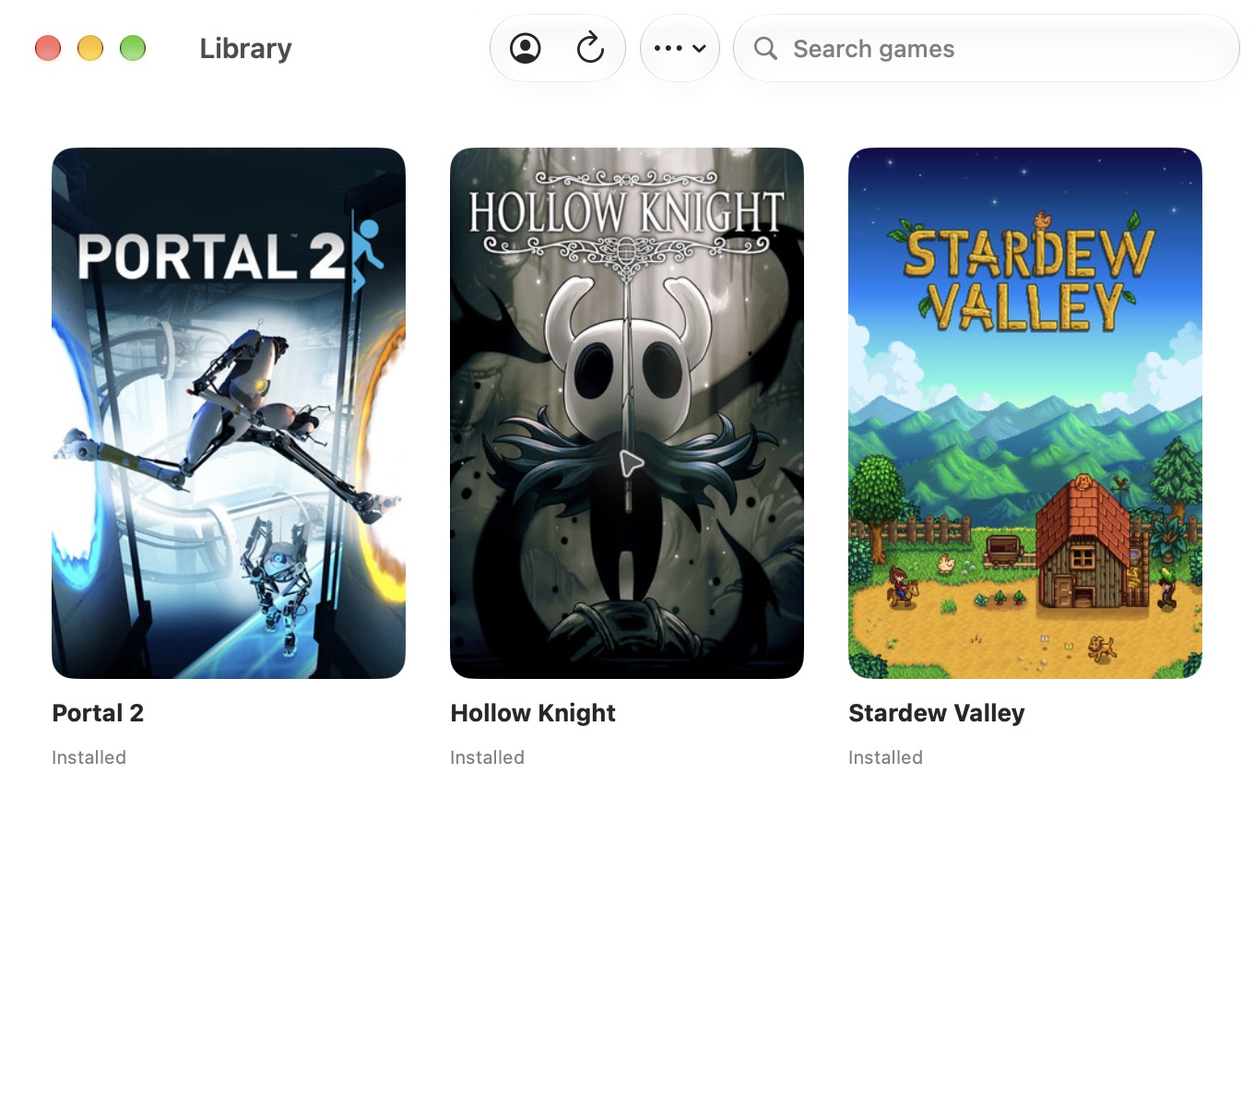
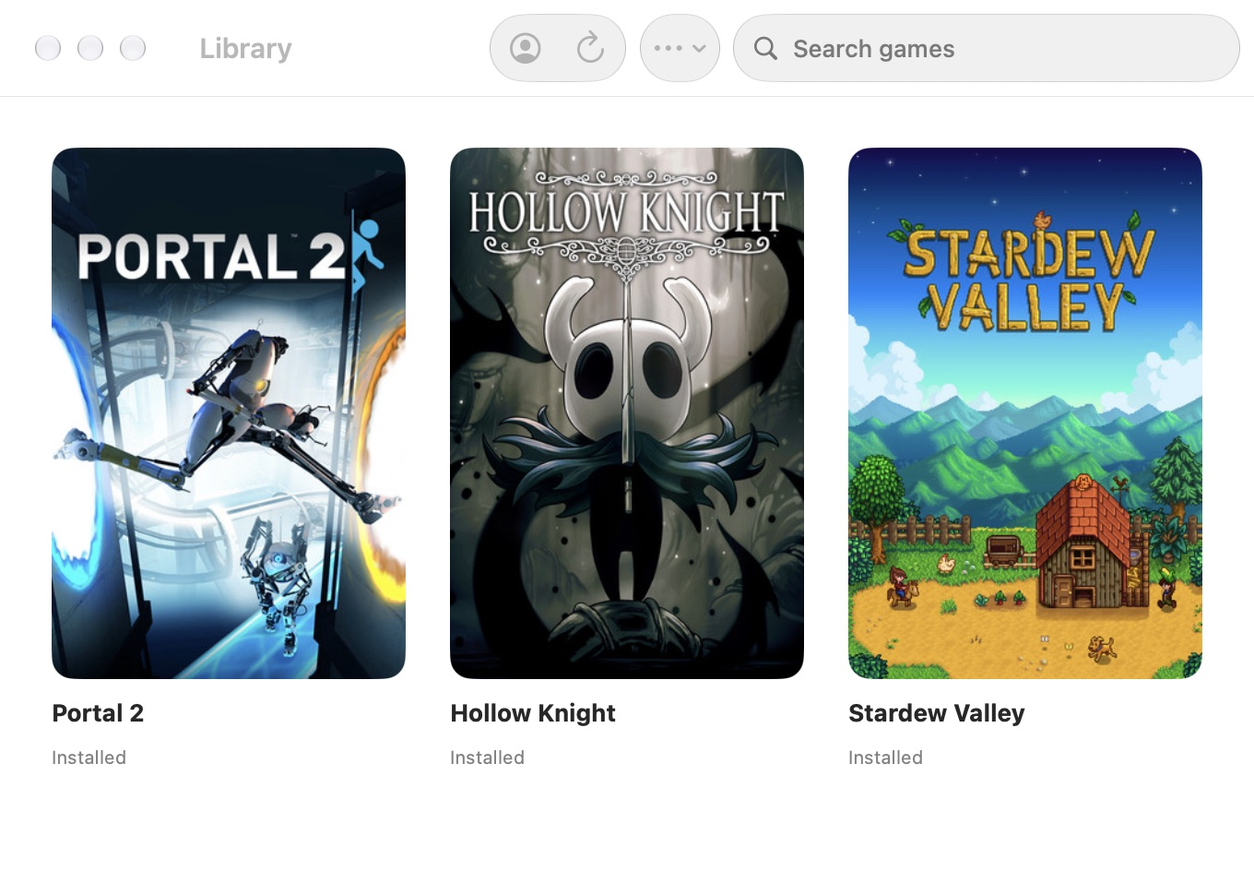
fix: compact hero window and add responsive preview motion

diff --git a/site/public/styles.css b/site/public/styles.css
@@ -10,15 +10,50 @@
 @media(min-width:1450px){.hero{padding-top:136px;padding-bottom:150px}.sky{height:900px}}
 @media(max-width:1050px){.shell{width:calc(100% - 64px)}.hero{gap:32px;padding-top:92px;padding-bottom:105px}h1{font-size:56px;letter-spacing:-2.7px}.hero-actions{gap:15px}.demo-link{font-size:12px}.button{font-size:13px;padding-inline:17px}.hero-mascot{width:140px;left:-42px;bottom:23px}.features{gap:36px}.library-layout{gap:50px}.faq{gap:64px}.library-copy h2{font-size:32px}}
 @media(max-width:760px){.shell{width:calc(100% - 40px)}.site-header{top:12px;margin-top:12px;padding:9px 11px 9px 13px}.site-header nav{gap:18px}.site-header .nav-text:first-child{display:none}.nav-action{font-size:11px;padding:10px 13px}.wordmark{font-size:20px;gap:5px}.wordmark img{width:29px;height:29px}.hero{grid-template-columns:1fr;gap:36px;padding-top:61px;padding-bottom:63px}.hero-copy{padding:0 4px;text-align:center}h1{font-size:clamp(47px,8.8vw,64px);letter-spacing:-2.7px;line-height:1.08}.hero-description{margin:22px auto 0;max-width:390px;font-size:15px;line-height:1.75}.hero-actions{justify-content:center;gap:20px;margin-top:25px}.button{font-size:13px}.hero .release-detail{margin-top:16px}.release-status{font-size:10px}.demo-scene{width:min(100%,520px);margin-inline:auto;padding-top:10px;padding-bottom:65px}.sky{height:1050px;background-position:center top;background-size:auto 100%}.hero-mascot{width:136px;left:-12px;bottom:14px}.how{padding-bottom:60px}.section-intro h2{font-size:31px}.section-intro>p{font-size:13px;margin-top:12px}.features{margin-top:35px;gap:27px;grid-template-columns:1fr}.features article{display:grid;grid-template-columns:37px 1fr;column-gap:12px}.feature-icon{grid-row:1/3;width:26px;height:26px;margin:0}.features h3{font-size:17px;margin:1px 0 7px}.features p{font-size:13px;line-height:1.8}.library-layout{grid-template-columns:1fr;gap:32px;padding-block:44px 48px}.folder-scene{transform:scale(.85);height:240px;margin-top:-14px;margin-bottom:-15px}.library-copy{padding-inline:4px}.library-copy h2{font-size:32px}.library-copy p{font-size:13px;max-width:100%;margin-top:17px}.text-link{margin-top:21px}.faq{grid-template-columns:1fr;gap:29px;padding-block:60px}.faq h2{font-size:33px}.faq h2 br{display:none}.faq>div>p{margin-top:13px;font-size:13px}summary{font-size:13px;padding-block:19px}.questions p{font-size:12px}.closing{padding-top:3px;padding-bottom:54px}.closing h2{font-size:36px}.closing>img{width:90px;height:90px;margin-bottom:16px}.closing>p:first-of-type{font-size:12px}.site-footer{font-size:10px;gap:12px;padding-block:23px}.site-footer p{order:3;width:100%;flex:auto;margin-left:0}.legal{order:4;font-size:9px}.site-footer>a:last-of-type{margin-left:auto}}
-@media(prefers-reduced-motion:reduce){html{scroll-behavior:auto}*,*::before,*::after{transition:none!important;animation:none!important}}
+@media(prefers-reduced-motion:reduce){html{scroll-behavior:auto}}
 
 .legal{font-size:11px}
 @media(min-width:761px) and (max-width:1050px){h1{font-size:clamp(40px,5.3vw,56px);letter-spacing:-.05em}.hero-description{font-size:15px}}
 @media(max-width:760px){.legal{font-size:10px}}
 
-.native-app-capture{overflow:hidden;border-radius:14px;background:#fff;box-shadow:0 30px 70px -25px #244b4e38,0 3px 12px #244b4e0b,0 0 0 1px #173d4214}.native-app-capture img{display:block;width:100%;height:auto}.demo-scene .demo-scene .hero-mascot{bottom:-1px}.demo-scene{padding-bottom:48px}
-@media(max-width:760px){.native-app-capture{border-radius:9px}.demo-scene .demo-scene .hero-mascot{bottom:-5px}.demo-scene{padding-bottom:44px}}
-
+/* The compact window and floating panel both retain the actual native pixels. */
+:root{--ease-out:cubic-bezier(0.23,1,0.32,1);--press-duration:160ms;--popover-duration:180ms}
 .sr-only{position:absolute;width:1px;height:1px;padding:0;margin:-1px;overflow:hidden;clip-path:inset(50%);white-space:nowrap;border:0}
-.native-stage{position:relative}.native-app-capture{position:relative}.native-cover,.native-play-hit{position:absolute;padding:0;border:0;border-radius:6px;background:transparent;color:transparent}.native-cover{top:13.333%;width:28.235%;height:56%}.portal-cover{left:4.118%}.hollow-cover{left:35.882%}.stardew-cover{left:67.647%}.native-play-hit{top:85%;width:34.7%;height:4.85%;border-radius:100px}.native-cover:focus-visible,.native-play-hit:focus-visible{outline:2px solid #007aff;outline-offset:3px}.cover-pointer{position:absolute;top:0;left:0;width:100%;height:auto;aspect-ratio:1;overflow:visible;pointer-events:none;stroke:#45655f;stroke-width:1.5}.demo-tools{display:flex;align-items:center;justify-content:flex-end;min-height:57px;padding:10px 20px 0 145px}.demo-hint,.native-back{font-size:12px;color:#45655f;line-height:1.6}.native-back{padding:6px 0;border:0;background:none;text-decoration:underline;text-underline-offset:4px}.demo-scene .hero-mascot{bottom:-7px}.demo-scene{padding-bottom:30px}
-@media(max-width:760px){.demo-tools{padding-right:5px;padding-left:125px;min-height:54px}.demo-hint,.native-back{font-size:11px}.demo-scene .hero-mascot{bottom:-14px}.demo-scene{padding-bottom:35px}}
+.native-stage{position:relative}
+.native-app-capture{position:relative;overflow:hidden;border-radius:14px;background:#fff;box-shadow:0 30px 70px -25px #244b4e38,0 3px 12px #244b4e0b,0 0 0 1px #173d4214}
+.native-app-capture>img{display:block;width:100%;height:auto;aspect-ratio:680/472}
+.native-cover{position:absolute;top:16.949%;width:28.235%;height:71%;padding:0;border:0;background:transparent;border-radius:8px}
+.portal-cover{left:4.118%}.hollow-cover{left:35.882%}.stardew-cover{left:67.647%}
+.native-selected-cover{position:absolute;inset:0 0 auto;aspect-ratio:2/3;overflow:hidden;border-radius:6.25%;opacity:0;transition:opacity 125ms var(--ease-out);pointer-events:none}
+.native-selected-cover img{position:absolute;top:-27.778%;width:354.167%;height:auto;max-width:none}
+.native-cover[aria-expanded=true] .native-selected-cover{opacity:1}
+.native-cover::after{content:'';position:absolute;inset:0 0 auto;aspect-ratio:2/3;background:#fff;border-radius:6.25%;opacity:0;transition:opacity 125ms var(--ease-out);pointer-events:none}
+.native-cover:active::after{background:#000;opacity:.055}
+.native-cover:focus-visible{outline:2px solid #007aff;outline-offset:3px}
+.native-popover{position:absolute;z-index:3;top:88.983%;width:41.176%;aspect-ratio:280/174;overflow:hidden;border-radius:0 0 8% 8% / 0 0 13% 13%;opacity:0;visibility:hidden;pointer-events:none;transform:translateY(-4%) scale(.95);transform-origin:50% 0;transition:opacity var(--popover-duration) var(--ease-out),transform var(--popover-duration) var(--ease-out),visibility 0s linear var(--popover-duration)}
+.native-popover[data-open]{opacity:1;visibility:visible;pointer-events:auto;transform:translateY(0) scale(1);transition-delay:0s}
+.native-popover-capture{position:absolute;top:-241.379%;width:242.857%;height:auto;max-width:none}
+.native-play-hit{position:absolute;left:7.857%;top:51.724%;width:84.286%;height:17.241%;border:0;border-radius:100px;background:transparent;transition:transform var(--press-duration) var(--ease-out)}
+.native-play-hit:focus-visible{outline:2px solid #007aff;outline-offset:3px}
+.demo-tools{display:flex;justify-content:flex-end;align-items:center;min-height:54px;padding:10px 18px 0 140px;position:relative;z-index:1}
+.demo-hint,.native-back{font-size:12px;color:#45655f;line-height:1.6}.native-back{border:0;background:none;padding:6px 0;text-decoration:underline;text-underline-offset:4px}
+.demo-scene{padding-bottom:24px}.demo-scene .hero-mascot{bottom:-10px}
+.button,.nav-action,.native-back{transition:transform var(--press-duration) var(--ease-out),opacity var(--press-duration) var(--ease-out)}
+.button:active,.nav-action:active,.native-back:active{transform:scale(.97)}
+@media(hover:hover) and (pointer:fine){.native-cover:hover::after{opacity:.045}.native-back:hover{opacity:.7}}
+@keyframes hero-enter{from{opacity:0;transform:translateY(12px)}to{opacity:1;transform:translateY(0)}}
+@keyframes hero-fade{from{opacity:0}to{opacity:1}}
+.hero-copy{animation:hero-enter 300ms var(--ease-out) both}.demo-scene{animation:hero-enter 300ms var(--ease-out) 60ms both}.hero-mascot{animation:hero-enter 300ms var(--ease-out) 120ms both}
+:root[data-keyboard] :is(.native-popover,.native-selected-cover,.button,.nav-action,.native-back){transition:none!important}
+:root[data-keyboard] :is(.button,.nav-action,.native-back):active{transform:none}
+@media(max-width:760px){.native-app-capture{border-radius:9px}.demo-tools{padding-right:4px;padding-left:125px;min-height:50px}.demo-hint,.native-back{font-size:11px}.demo-scene{padding-bottom:27px}.demo-scene .hero-mascot{bottom:-15px}}
+@media(prefers-reduced-motion:reduce){.hero-copy,.demo-scene,.hero-mascot{animation:hero-fade 200ms var(--ease-out) both}.native-popover{transform:none;transition:opacity 125ms var(--ease-out),visibility 0s linear 125ms}.native-popover[data-open]{transition-delay:0s}.button:active,.nav-action:active,.native-back:active{transform:none}}
+
+:root[data-keyboard] .native-cover::after{transition:none}
+.native-play-hit::after{content:'';position:absolute;inset:0;border-radius:inherit;background:#fff;opacity:0;pointer-events:none;transition:opacity var(--press-duration) var(--ease-out)}
+.native-play-hit:active::after{opacity:.16}
+:root[data-keyboard] .native-play-hit::after{transition:none}
+
+.demo-scene.popover-on-right .demo-tools{justify-content:flex-start}
+.native-play-hit{min-height:28px}
+@media(max-width:760px){.demo-scene.popover-on-right .demo-tools{padding-left:120px}}

diff --git a/site/public/index.html b/site/public/index.html
@@ -14,16 +14,17 @@
 <div class="hero-copy"><h1 id="hero-title">Your games.<br>A little lighter.</h1><p class="hero-description">A native Mac home for your Windows Steam games. Pick a cover, press Play, and make yourself at home.</p><div class="hero-actions"><a class="button primary" href="https://github.com/talhabalaj/pufflet" data-release-link><svg viewBox="0 0 24 24" aria-hidden="true"><path d="M12 3v12m-5-5 5 5 5-5M5 16v4h14v-4"/></svg><span data-release-label>Follow the first release</span></a><a class="demo-link" href="#library-demo">Try the preview <span aria-hidden="true">↗</span></a></div><p class="release-detail" data-release-detail>Apple silicon · macOS 26 or later</p><p class="release-status" data-release-status>The first notarized download is being prepared.</p></div>
 <figure class="demo-scene" id="library-demo" aria-label="Interactive preview of Pufflet’s native Mac library" aria-describedby="native-preview-description">
 <div class="native-stage">
-<div class="native-app-capture"><img id="native-capture" src="/images/native-library.jpg" width="1360" height="1200" alt="Pufflet’s native macOS library, with account, refresh, Steam options, search, and three installed game covers.">
-<button class="native-cover portal-cover" type="button" data-game="Portal 2" data-capture="/images/native-portal-2.jpg" data-play-left="5.15%" aria-label="Preview Portal 2’s native Play popover" aria-expanded="false" aria-controls="native-play-preview"></button>
-<button class="native-cover hollow-cover" type="button" data-game="Hollow Knight" data-capture="/images/native-hollow-knight.jpg" data-play-left="32.65%" aria-label="Preview Hollow Knight’s native Play popover" aria-expanded="false" aria-controls="native-play-preview"></button>
-<button class="native-cover stardew-cover" type="button" data-game="Stardew Valley" data-capture="/images/native-stardew-valley.jpg" data-play-left="60.15%" aria-label="Preview Stardew Valley’s native Play popover" aria-expanded="false" aria-controls="native-play-preview"></button>
-<button class="native-play-hit" id="native-play-preview" type="button" aria-label="Play preview; no game will launch" hidden></button>
+<div class="native-app-capture"><img id="native-capture" src="/images/native-library.jpg" width="1360" height="944" alt="Pufflet’s native macOS library, with account, refresh, Steam options, search, and three installed game covers.">
+<button class="native-cover portal-cover" type="button" data-game="Portal 2" data-capture="/images/native-portal-2.jpg" data-popup-left="1.912%" data-popup-crop="-4.643%" data-origin="39.64%" aria-label="Preview Portal 2’s native Play popover" aria-expanded="false" aria-controls="native-play-preview"><span class="native-selected-cover"><img width="1360" height="1200" alt="" aria-hidden="true" style="left:-14.583%"></span></button>
+<button class="native-cover hollow-cover" type="button" data-game="Hollow Knight" data-capture="/images/native-hollow-knight.jpg" data-popup-left="29.412%" data-popup-crop="-71.429%" data-origin="50%" aria-label="Preview Hollow Knight’s native Play popover" aria-expanded="false" aria-controls="native-play-preview"><span class="native-selected-cover"><img width="1360" height="1200" alt="" aria-hidden="true" style="left:-127.083%"></span></button>
+<button class="native-cover stardew-cover" type="button" data-game="Stardew Valley" data-capture="/images/native-stardew-valley.jpg" data-popup-left="57.059%" data-popup-crop="-138.571%" data-origin="60%" aria-label="Preview Stardew Valley’s native Play popover" aria-expanded="false" aria-controls="native-play-preview"><span class="native-selected-cover"><img width="1360" height="1200" alt="" aria-hidden="true" style="left:-239.583%"></span></button>
 </div>
-<svg class="cover-pointer" viewBox="0 0 680 680" aria-hidden="true"><path d="M470 642C410 646 337 604 340 360M333 372l7-12 7 12"/></svg>
+<div class="native-popover" id="native-play-preview" role="group" aria-label="Native game preview actions" inert>
+<img class="native-popover-capture" width="1360" height="1200" alt="" aria-hidden="true"><button class="native-play-hit" type="button" aria-label="Play preview; no game will launch"></button>
+</div>
 </div>
 <img class="hero-mascot" src="/pufflet.png" width="1280" height="1280" alt="Pufflet, a little cream steam dragon with coral wings">
-<div class="demo-tools"><p class="demo-hint">Go on. Pick a cover.</p><button class="native-back" type="button" hidden>Back to library</button></div>
+<div class="demo-tools"><p class="demo-hint">Pick a cover. See how it feels.</p><button class="native-back" type="button" hidden>Back to library</button></div>
 <span class="sr-only" id="native-preview-description">Native app captures with sample game data. Choose a cover to see its real Play popover. No game launches in this website preview. The example covers are not a compatibility list.</span><span class="sr-only" id="native-preview-status" role="status" aria-live="polite"></span>
 </figure></section>
 <section class="how shell" id="how-it-works" aria-labelledby="how-title"><div class="section-intro"><h2 id="how-title">Less launcher. More play.</h2><p>Your library gets a home that feels like your Mac.</p></div><div class="features">

diff --git a/site/public/app.js b/site/public/app.js
@@ -1,44 +1,82 @@
 import { releaseDetails } from './release.mjs';
 
-const capture = document.querySelector('#native-capture');
+const scene = document.querySelector('#library-demo');
 const covers = [...document.querySelectorAll('.native-cover')];
+const panel = document.querySelector('.native-popover');
+const panelImage = document.querySelector('.native-popover-capture');
 const playPreview = document.querySelector('.native-play-hit');
 const back = document.querySelector('.native-back');
 const hint = document.querySelector('.demo-hint');
-const pointer = document.querySelector('.cover-pointer');
 const previewStatus = document.querySelector('#native-preview-status');
 let selected;
+let pendingCover;
+let previewRequest = 0;
 
-function closePreview(restoreFocus = true) {
-  capture.src = '/images/native-library.jpg';
-  capture.alt = 'Pufflet’s native macOS library with three installed game covers.';
-  covers.forEach(cover => cover.setAttribute('aria-expanded', 'false'));
-  playPreview.hidden = back.hidden = true;
-  hint.hidden = pointer.hidden = false;
-  if (restoreFocus) selected?.focus();
+// Keyboard navigation stays instant; pointer interactions use the short transitions.
+document.addEventListener('keydown', () => document.documentElement.setAttribute('data-keyboard', ''), true);
+document.addEventListener('pointerdown', () => document.documentElement.removeAttribute('data-keyboard'), true);
+
+async function prepareCapture(cover) {
+  const image = cover.querySelector('img');
+  if (!image.hasAttribute('src')) image.src = cover.dataset.capture;
+  await image.decode();
 }
 
-covers.forEach(cover => cover.addEventListener('click', () => {
-  selected = cover;
-  capture.src = cover.dataset.capture;
-  capture.alt = `Pufflet’s native ${cover.dataset.game} Play popover, with Installed, Play, and Show files.`;
-  covers.forEach(item => item.setAttribute('aria-expanded', String(item === cover)));
-  playPreview.style.left = cover.dataset.playLeft;
-  playPreview.hidden = back.hidden = false;
-  hint.hidden = pointer.hidden = true;
-  playPreview.focus();
-  previewStatus.textContent = `${cover.dataset.game} preview selected.`;
-}));
+function closePreview(restoreFocus = true) {
+  const trigger = pendingCover ?? selected;
+  pendingCover = undefined;
+  previewRequest++;
+  panel.removeAttribute('data-open');
+  scene.classList.remove('popover-on-right');
+  panel.inert = true;
+  covers.forEach(cover => cover.setAttribute('aria-expanded', 'false'));
+  back.hidden = true;
+  hint.hidden = false;
+  if (restoreFocus) trigger?.focus({ preventScroll: true });
+}
+
+covers.forEach(cover => {
+  cover.addEventListener('pointerenter', () => { prepareCapture(cover).catch(() => {}); }, { once: true });
+  cover.addEventListener('click', async () => {
+    if (selected === cover && panel.hasAttribute('data-open')) return closePreview();
+    const request = ++previewRequest;
+    pendingCover = cover;
+    try {
+      await prepareCapture(cover);
+      if (request !== previewRequest) return;
+      pendingCover = undefined;
+      selected = cover;
+      scene.classList.toggle('popover-on-right', cover.classList.contains('stardew-cover'));
+      panelImage.src = cover.dataset.capture;
+      panelImage.style.left = cover.dataset.popupCrop;
+      panel.style.left = cover.dataset.popupLeft;
+      panel.style.transformOrigin = `${cover.dataset.origin} 0%`;
+      covers.forEach(item => item.setAttribute('aria-expanded', String(item === cover)));
+      panel.setAttribute('aria-label', `${cover.dataset.game} native Play preview`);
+      panel.inert = false;
+      panel.setAttribute('data-open', '');
+      back.hidden = false;
+      hint.hidden = true;
+      playPreview.focus({ preventScroll: true });
+      previewStatus.textContent = `${cover.dataset.game} preview selected.`;
+    } catch {
+      if (request === previewRequest) {
+        pendingCover = undefined;
+        previewStatus.textContent = 'The preview could not load. Select the cover to try again.';
+      }
+    }
+  });
+});
 back.addEventListener('click', () => closePreview());
 playPreview.addEventListener('click', () => {
   closePreview();
   previewStatus.textContent = 'Preview complete. No game was launched.';
 });
 document.addEventListener('keydown', event => {
-  if (event.key === 'Escape' && !back.hidden) closePreview();
+  if (event.key === 'Escape' && (!back.hidden || pendingCover)) closePreview();
 });
 document.addEventListener('click', event => {
-  if (!back.hidden && !event.target.closest('#library-demo')) closePreview(false);
+  if ((!back.hidden || pendingCover) && !event.target.closest('#library-demo')) closePreview(false);
 });
 document.querySelector('.demo-link').addEventListener('click', () => covers[1].focus({ preventScroll: true }));
 

diff --git a/site/scripts/native-preview.swift b/site/scripts/native-preview.swift
@@ -87,10 +87,11 @@ struct RuntimeOnboardingView: View {
         WindowGroup("Library", id: "website-preview") {
             LibraryView(model: model)
                 .onAppear {
-                    NSApplication.shared.windows.first?.setContentSize(NSSize(width: 680, height: 600))
+                    let height = ProcessInfo.processInfo.arguments.contains("--popovers") ? 600 : 460
+                    NSApplication.shared.windows.first?.setContentSize(NSSize(width: 680, height: height))
                 }
         }
-        .defaultSize(width: 680, height: 600)
+        .defaultSize(width: 680, height: 460)
         .windowResizability(.contentMinSize)
         Settings { Text("Website preview only").padding() }
     }

diff --git a/site/ASSETS.md b/site/ASSETS.md
@@ -4,15 +4,19 @@
 
 `public/images/cloud-garden.webp` is original generated background artwork made with the built-in image generation tool on 2026-10-15. It depicts an airy mint sky, ivory and peach cloud banks, and distant floating islands, with open space for the headline and interactive app illustration. The 1536 × 1024 PNG was encoded with `cwebp -q 84` to a 25 KB WebP. No Said artwork was copied.
 
-`public/images/native-library.jpg` is the original 1360 × 1200 native screenshot returned by the computer-use screenshot tool, retained without another encoding pass. It was captured from the **unmodified** `Sources/LibraryView.swift`, compiled with `site/scripts/native-preview.swift` supplying three sample games. The fixture is an isolated, temporary app with its own bundle identity. It does not access Steam, credentials, user game files, or the installed Pufflet app's preferences. The native SwiftUI view supplies the real toolbar, search field, cover grid, typography, and spacing. Light appearance is selected only in the fixture.
+`public/images/native-library.jpg` is the original 1360 × 944 native screenshot returned by the computer-use screenshot tool, retained without another encoding pass. It was captured from the **unmodified** `Sources/LibraryView.swift`, compiled with `site/scripts/native-preview.swift` supplying three sample games. The fixture is an isolated, temporary app with its own bundle identity. It does not access Steam, credentials, user game files, or the installed Pufflet app's preferences. The native SwiftUI view supplies the real toolbar, search field, cover grid, typography, and spacing. Light appearance is selected only in the fixture.
 
[2 lines of base64/hex data omitted]
 
-The hero displays native captures directly. `native-portal-2.jpg`, `native-hollow-knight.jpg`, and `native-stardew-valley.jpg` capture each game's actual native Play popover, including the selected-cover border, glass button, Show files link, and options menu. All four images have identical dimensions. The fixture uses a sample 5 GB size for each game; sizes do not describe the real games. For the edge covers, the fixture places its window at the corresponding screen edge, letting macOS constrain the popover inside the captured window. Select an edge cover twice, closing its popover between selections, so native anchors have settled after the window moves.
+The hero displays native captures directly. `native-portal-2.jpg`, `native-hollow-knight.jpg`, and `native-stardew-valley.jpg` capture each game's actual native Play popover, including the selected-cover border, glass button, Show files link, and options menu. The three popover source images are 1360 × 1200. The compact library is 1360 × 944. The fixture uses a sample 5 GB size for each game; sizes do not describe the real games. For the edge covers, the fixture places its window at the corresponding screen edge, letting macOS constrain the popover inside the captured window. Select an edge cover twice, closing its popover between selections, so native anchors have settled after the window moves.
 
-Transparent browser buttons align with the native cover and Play bounds. The web demo swaps captures, restores focus on Escape or Back, and never launches a game. The separate mascot and curved pointer are website elements. The pointer uses the same 680-point coordinate space as the captures, ending at the middle cover's lower edge. The hero has no visible intro label or illustration caption. A screen-reader description and the FAQ explain that the library is an example, not proof of game compatibility.
+Transparent browser buttons align with the native cover and Play bounds. Selected covers and popovers are cropped directly from the native images using CSS; their pixels are not recreated. The popover floats beyond the compact window, as in macOS. The window does not stretch to contain it. Escape, Back, and preview Play restore focus; no game launches.
 
-To regenerate, build the fixture with `xcrun swiftc -parse-as-library -swift-version 6 -target arm64-apple-macos26.0 site/scripts/native-preview.swift Sources/LibraryView.swift`, placing the executable in a temporary `.app` bundle with identifier `me.balaj.PuffletWebsitePreview`. Copy the following three cover files into its `Contents/Resources`, open the fixture, then capture its Library window. Do not install or replace Pufflet. The fixture uses a 680 × 600 default window size; capture at 2× display scale.
+The separate mascot and short text cue are website elements. There is no arrow, visible intro label, or illustration caption. A screen-reader description and the FAQ explain that this is an example library, not proof of game compatibility.
+
+Motion follows the Emil design/animation skills: 160 ms press feedback, 180 ms origin-aware popover transitions, a 300 ms hero entrance with 60 ms staggering, and `cubic-bezier(0.23, 1, 0.32, 1)`. Pointer hovers are gated to fine pointers. Keyboard actions are instant; reduced motion retains short opacity transitions without translation or scaling. Image decoding is guarded so a dismissed or superseded preview cannot reopen later.
+
+To regenerate, build the fixture with `xcrun swiftc -parse-as-library -swift-version 6 -target arm64-apple-macos26.0 site/scripts/native-preview.swift Sources/LibraryView.swift`, placing the executable in a temporary `.app` bundle with identifier `me.balaj.PuffletWebsitePreview`. Copy the following three cover files into its `Contents/Resources`, open the fixture, then capture its Library window. Do not install or replace Pufflet. The fixture defaults to a compact 680 × 472 window after native minimum sizing (460 requested). Launch it with `--popovers` for a 680 × 600 capture area when capturing the full popovers. Capture at 2× display scale.
 
 The three example covers were downloaded from the public Steam CDN on 2026-10-15:
 
